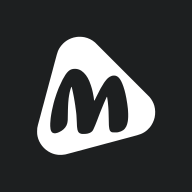
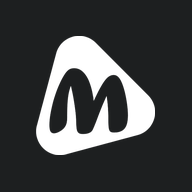
Іконка входу: біле лого Movily (трикутник з M) на темному тлі для iOS/Android/фавіконів

diff --git a/index.html b/index.html
@@ -12,12 +12,12 @@
     <meta property="og:image:type" content="image/png">
     <meta property="og:image" content="og.png">
 
-    <link rel="apple-touch-icon" sizes="180x180" href="icons/apple-touch-icon.png">
-    <link rel="icon" type="image/png" sizes="32x32" href="icons/favicon-32x32.png">
-    <link rel="icon" type="image/png" sizes="16x16" href="icons/favicon-16x16.png">
+    <link rel="apple-touch-icon" sizes="180x180" href="icons/apple-touch-icon.png?v=2">
+    <link rel="icon" type="image/png" sizes="32x32" href="icons/favicon-32x32.png?v=2">
+    <link rel="icon" type="image/png" sizes="16x16" href="icons/favicon-16x16.png?v=2">
     <link rel="manifest" href="icons/site.webmanifest" crossorigin="use-credentials">
     <link rel="mask-icon" href="icons/safari-pinned-tab.svg" color="#5bbad5">
-    <link rel="shortcut icon" href="icons/favicon.ico">
+    <link rel="shortcut icon" href="icons/favicon.ico?v=2">
     <meta name="msapplication-TileColor" content="#1d1f20">
     <meta name="msapplication-config" content="icons/browserconfig.xml">
     <meta name="theme-color" content="#1d1f20">
